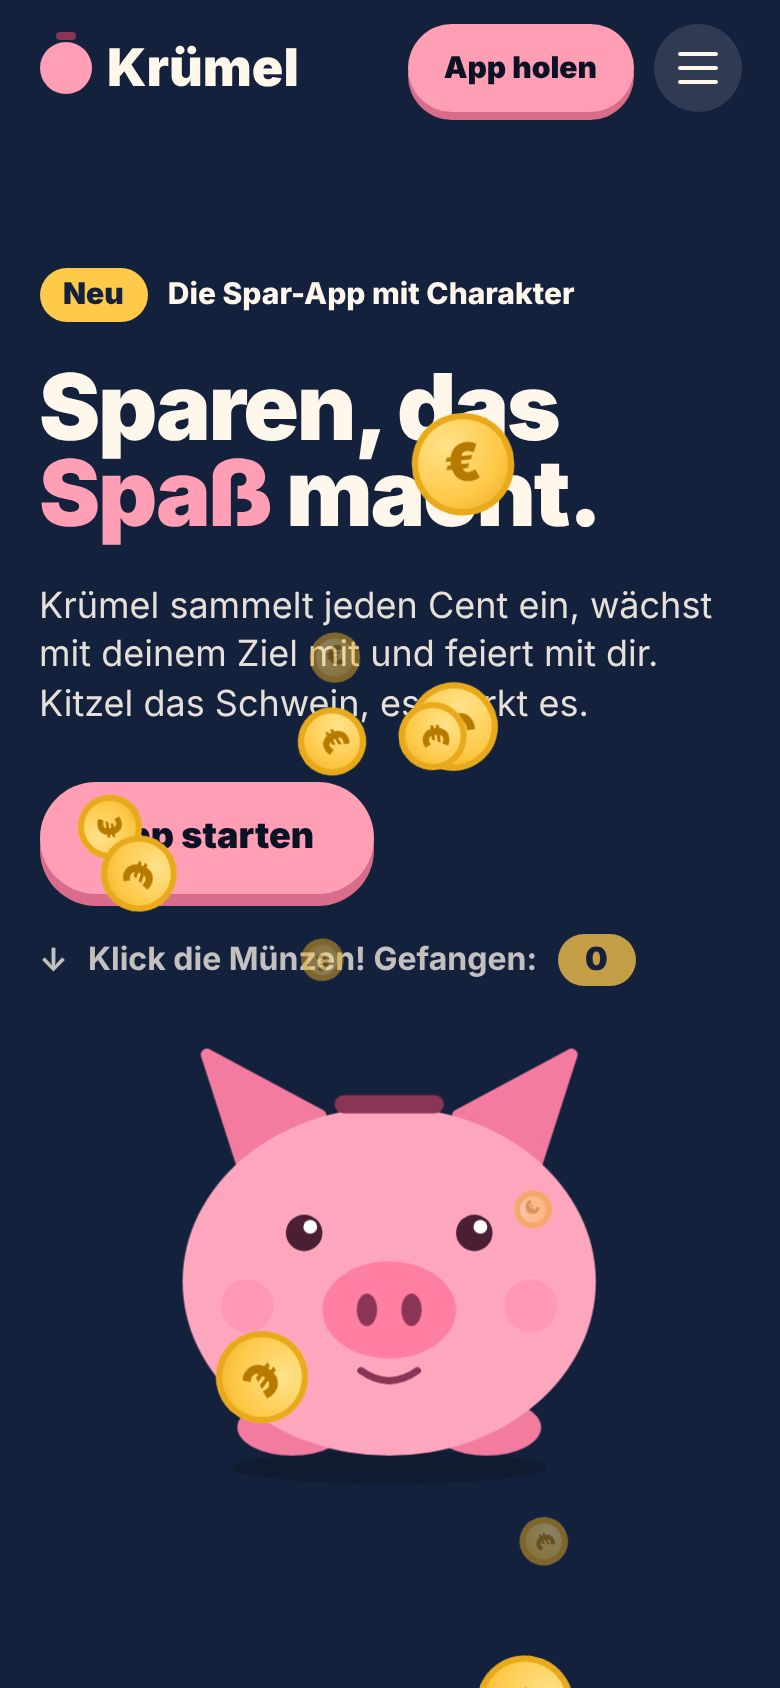
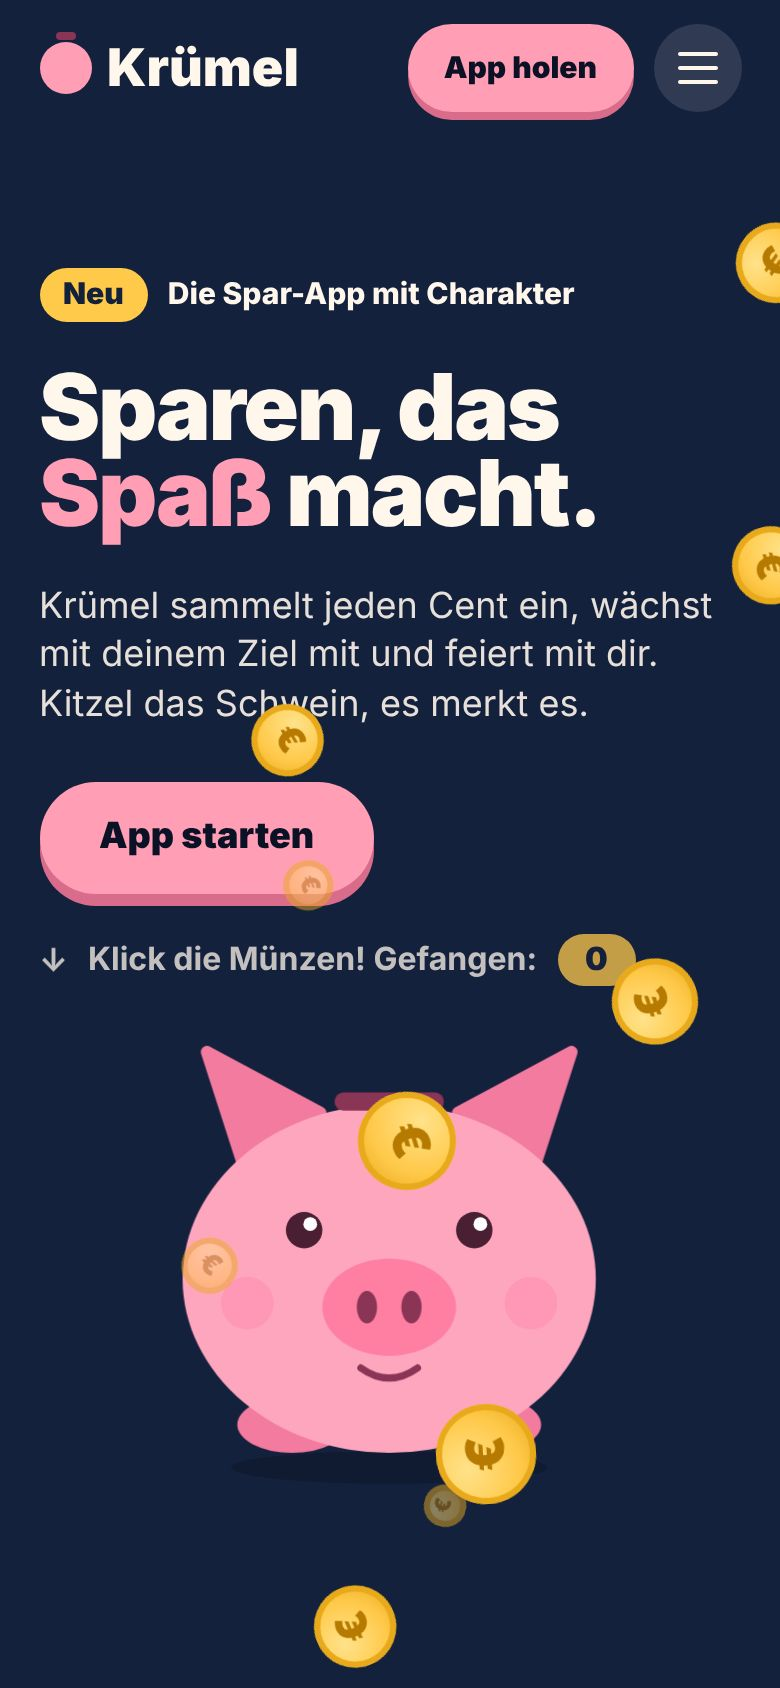
Kruemel: alle Handyformate (320-430, quer) und Tablets, Effekte wie im Original
- 320 px: Film randlos (Untertitel 16 px), Kopfzeile einzeilig, Sprechblasen im Bild
- Handy quer: Rakete und Film nach Hoehe, Menue scrollt; Touch quer mit wenig Hoehe:
  alle Szenen passen; Touch-Tablets: 44-px-Tippflaechen bei gleichem Layout
- Tablet hochkant: groessere Figuren
- Effekte wiederhergestellt: Muenzregen-Parallaxe auch per Finger, Muenzen fallen
  voll sichtbar, :active-Druck auf Touch; Hover-Huepfer bleibt Maus-only
- Screenshots 320/quer/tablet unter .github/mobil-screenshots/

Claude-Session: https://claude.ai/code/session_01AyfSqY7cTPqPCYg2cb2CQZ

diff --git a/index.html b/index.html
@@ -256,6 +256,7 @@ footer a{margin-right:18px}
  nav.open ul{opacity:1;visibility:visible;transform:none;transition:opacity .2s,transform .2s}
  nav ul a{display:flex;align-items:center;min-height:52px;font-size:20px;opacity:1;border-bottom:1px solid rgba(255,246,236,.12)}
  nav ul li:last-child a{border-bottom:0}
+ nav ul{max-height:calc(100vh - 68px);max-height:calc(100svh - 68px);overflow-y:auto;overscroll-behavior:contain}
  section{padding-top:88px;padding-left:max(5vw,env(safe-area-inset-left));padding-right:max(5vw,env(safe-area-inset-right))}
  footer{padding-left:max(5vw,env(safe-area-inset-left));padding-right:max(5vw,env(safe-area-inset-right))}
  /* Tippflächen >= 44px, Optik bleibt gleich */
@@ -276,9 +277,9 @@ footer a{margin-right:18px}
  #catchPig{max-width:min(300px,34vh);max-width:min(300px,34svh)}
  #grow .steps{height:136px;margin-top:22px}
  #growPig{max-width:min(300px,38vh);max-width:min(300px,38svh);margin-top:calc(min(300px,38vh)*-.17);margin-top:calc(min(300px,38svh)*-.17)}
- #growPig .bubble,#sliderPig .bubble{font-size:22px;white-space:normal;width:max-content;max-width:400px;text-align:center}
+ #growPig .bubble,#sliderPig .bubble{font-size:22px}
  .rcopy{top:88px;left:max(5vw,env(safe-area-inset-left));right:5vw;max-width:none}
- .rcopy .rstep{width:100%;text-shadow:0 2px 14px rgba(7,11,30,.45)}
+ .rcopy .rstep{width:100%;text-shadow:0 1px 3px rgba(7,11,30,.6),0 2px 18px rgba(7,11,30,.6)}
  .rcopy .rstep p{font-size:clamp(30px,9vw,44px)}
  .rcopy .rstep small{font-size:18px}
  .rocketwrap{width:clamp(96px,17vh,150px);width:clamp(96px,17svh,150px);margin-left:calc(clamp(96px,17vh,150px)/-2);margin-left:calc(clamp(96px,17svh,150px)/-2);bottom:auto;top:calc(86vh - clamp(96px,17vh,150px)*1.8);top:calc(86svh - clamp(96px,17svh,150px)*1.8)}
@@ -326,8 +327,66 @@ footer a{margin-right:18px}
  .rcopy{right:auto;width:44vw}
  .rcopy .rstep p{font-size:30px}
  .rcopy .rstep small{font-size:16px}
- .rocketwrap{left:70%}
- .film{max-width:calc((100vh - 60px)*16/9);max-width:calc((100svh - 60px)*16/9)}
+ .rocketwrap{left:70%;width:clamp(70px,22vh,150px);width:clamp(70px,22svh,150px);margin-left:calc(clamp(70px,22vh,150px)/-2);margin-left:calc(clamp(70px,22svh,150px)/-2);top:calc(86vh - clamp(70px,22vh,150px)*1.8);top:calc(86svh - clamp(70px,22svh,150px)*1.8)}
+ .film{max-width:calc((100vh - 76px)*16/9);max-width:calc((100svh - 76px)*16/9)}
+}
+@media (min-width:600px) and (max-width:860px) and (min-height:900px){
+ /* Tablet hochkant: Figuren größer, damit kein kleines Handy-Layout auf der großen Fläche steht */
+ .pigwrap{max-width:400px}
+ #hero .pigwrap{max-width:min(400px,34vh);max-width:min(400px,34svh)}
+ #catchPig{max-width:min(440px,40vh);max-width:min(440px,40svh)}
+ #growPig{max-width:min(460px,44vh);max-width:min(460px,44svh);margin-top:calc(min(460px,44vh)*-.17);margin-top:calc(min(460px,44svh)*-.17)}
+ #finale .pigwrap{width:300px}
+ .rocketwrap{width:clamp(96px,17vh,190px);width:clamp(96px,17svh,190px);margin-left:calc(clamp(96px,17vh,190px)/-2);margin-left:calc(clamp(96px,17svh,190px)/-2);top:calc(86vh - clamp(96px,17vh,190px)*1.8);top:calc(86svh - clamp(96px,17svh,190px)*1.8)}
+ #moon{width:clamp(96px,24vw,200px);right:-4vw}
+}
+@media (max-width:374px){
+ /* 320er-Handys: Film randlos (Untertitel und Schilder bleiben groß genug), Kopfzeile einzeilig */
+ .screen.port{width:auto;margin-left:-5vw;margin-right:-5vw;border-radius:0;border-left:0;border-right:0}
+ nav{gap:8px}
+ .logo{font-size:22px;gap:6px}
+ nav .btn.sm{white-space:nowrap;padding:12px 14px}
+ #moon{right:-12vw}
+}
+@media (min-width:861px) and (max-height:500px) and (pointer:coarse){
+ /* Touch-Geräte quer mit wenig Höhe im Desktop-Layout (z. B. 932x430): Szenen passen in die Höhe */
+ section{padding-top:84px;padding-bottom:28px}
+ .split{min-height:0}
+ h2{font-size:40px}
+ .lead{font-size:17px;margin-top:12px}
+ .eyebrow{margin-bottom:12px}
+ .counter{font-size:58px;margin-top:14px!important}
+ #hero .pigwrap,#catchPig{max-width:min(560px,60vh);max-width:min(560px,60svh)}
+ #grow .steps{height:120px;margin-top:16px}
+ .step big{font-size:44px}.step span{font-size:17px}
+ #growPig{max-width:min(560px,72vh);max-width:min(560px,72svh)}
+ .rcopy{top:84px}
+ .rcopy .rstep p{font-size:36px}
+ .rcopy .rstep small{font-size:17px}
+ .rocketwrap{width:clamp(70px,22vh,150px);width:clamp(70px,22svh,150px);margin-left:calc(clamp(70px,22vh,150px)/-2);margin-left:calc(clamp(70px,22svh,150px)/-2);bottom:auto;top:calc(86vh - clamp(70px,22vh,150px)*1.8);top:calc(86svh - clamp(70px,22svh,150px)*1.8)}
+ .film{max-width:calc((100vh - 76px)*16/9);max-width:calc((100svh - 76px)*16/9)}
+}
+@media (min-width:861px) and (pointer:coarse){
+ /* Touch-Tablets im Desktop-Layout: Tippflächen >= 44px, Layout bleibt gleich (Innenabstand + negativer Außenabstand) */
+ .skip{padding:12px 16px}
+ .logo{padding:5px 0;margin:-5px 0}
+ nav ul a{display:block;padding:12px 6px;margin:-12px -6px}
+ nav .btn.sm{padding-top:12px;padding-bottom:12px;margin:-2px 0}
+ label{padding:9px 0;margin:-9px 0 -3px}
+ input[type=range]{height:44px;border:solid transparent;border-width:13px 0;background-clip:padding-box;border-radius:9px/22px}
+ #amt{margin:5px 0}
+ .chips button{padding-top:12px;padding-bottom:12px;margin:-3px 0}
+ footer a{display:inline-block;padding:13px 0;margin-top:-13px;margin-bottom:-13px}
+ #growPig .bubble,#sliderPig .bubble{font-size:22px}
+}
+@media (max-width:860px),(pointer:coarse){
+ /* Sprechblasen umbrechen statt über den Rand zu laufen (Position korrigiert das Script) */
+ .bubble{white-space:normal;width:max-content;max-width:min(300px,86vw);text-align:center}
+ #growPig .bubble,#sliderPig .bubble{max-width:min(400px,105vw)}
+ .bubble::after{margin-left:calc(-9px + var(--tx,0px))}
+ /* Film quer bei kleiner Bühne: größere Untertitel und Schilder (Klasse setzt das Script) */
+ .canvas.lg .cap{font-size:clamp(34px,calc(15px / var(--k,.5)),44px);left:40px;right:40px;bottom:24px}
+ .canvas.lg .drop{font-size:clamp(26px,calc(12.5px / var(--k,.5)),40px)}
 }
 @media (min-width:861px) and (max-width:1180px) and (pointer:coarse){
  /* Tablet quer: Raketen-Text nicht unter die Rakete laufen lassen */
@@ -338,7 +397,8 @@ footer a{margin-right:18px}
  #rain .coin::before{content:"";position:absolute;inset:-10px;border-radius:50%}
 }
 @media (hover:none){
- .btn:hover{transform:none}
+ /* nur der Hover-Hüpfer entfällt auf Touch (dort gibt es kein Hover), der Druck-Effekt (:active) bleibt */
+ .btn:hover:not(:active){transform:none}
 }
 </style>
 </head>
@@ -531,8 +591,16 @@ function say(host,text,ms=2200){
  if(!b){b=document.createElement('div');b.className='bubble';host.append(b)}
  b.textContent=text;
  gsap.killTweensOf(b);
+ if(MOB||COARSE)keepIn(b);
  gsap.fromTo(b,{opacity:0,scale:.5,xPercent:-50,y:10,transformOrigin:'50% 100%'},{opacity:1,scale:1,y:0,duration:.35,ease:'back.out(2.2)'});
  gsap.to(b,{opacity:0,scale:.8,duration:.25,delay:ms/1000});
+}
+/* Mobil/Touch: Sprechblase seitlich im Bildschirm halten, die Spitze zeigt weiter aufs Schwein */
+function keepIn(b){
+ gsap.set(b,{x:0,xPercent:-50,y:0,scale:1});b.style.setProperty('--tx','0px');
+ const r=b.getBoundingClientRect(),vw=document.documentElement.clientWidth,k=r.width/b.offsetWidth||1,m=8;let dx=0;
+ if(r.width>vw-2*m)dx=(vw-r.width)/2-r.left;else if(r.left<m)dx=m-r.left;else if(r.right>vw-m)dx=vw-m-r.right;
+ if(dx){const hw=b.offsetWidth/2-22;gsap.set(b,{x:dx/k});b.style.setProperty('--tx',Math.max(-hw,Math.min(hw,-dx/k))+'px')}
 }
 function squash(pigEl,s=.88){
  gsap.timeline().to(pigEl,{scaleY:s,scaleX:2-s,duration:.1,transformOrigin:'50% 90%'}).to(pigEl,{scaleY:1,scaleX:1,duration:.5,ease:'elastic.out(1.2,.4)'});
@@ -625,11 +693,11 @@ gsap.to('#bar',{scaleX:1,ease:'none',scrollTrigger:{start:0,end:'max',scrub:.2}}
   }
   ScrollTrigger.create({trigger:'#hero',start:'top top',end:'bottom top',onToggle:s=>tw.forEach(t=>s.isActive?t.resume():t.pause())});
   const qx=gsap.quickTo(rain,'x',{duration:.9,ease:'power3.out'}),qy=gsap.quickTo(rain,'y',{duration:.9,ease:'power3.out'});
-  addEventListener('pointermove',e=>{if(COARSE&&e.pointerType!=='mouse')return;qx((e.clientX/innerWidth-.5)*-30);qy((e.clientY/innerHeight-.5)*-20)},{passive:true});
+  addEventListener('pointermove',e=>{qx((e.clientX/innerWidth-.5)*-30);qy((e.clientY/innerHeight-.5)*-20)},{passive:true});
   /* Intro: Hero baut sich weich auf */
   gsap.from('#hero .eyebrow,#hero h1,#hero .lead,#hero .btn,#hero .hint',{y:46,opacity:0,duration:.9,ease:'power3.out',stagger:.1,delay:.1});
   /* Smartphone/Tablet: der Hero-Button blieb nach dem Intro 46 px zu tief haengen und lag ueber dem Hinweis darunter (y-Endwert wurde als 46 gelesen). Hier explizit auf 0 fuehren; Desktop unveraendert. */
-  if(matchMedia('(max-width:860px)').matches)gsap.fromTo('#hero .btn',{y:46},{y:0,duration:.9,ease:'power3.out',delay:.4,overwrite:'auto'});
+  if(matchMedia('(max-width:860px), (pointer:coarse)').matches)gsap.fromTo('#hero .btn',{y:46},{y:0,duration:.9,ease:'power3.out',delay:.4,overwrite:'auto'});
   gsap.from('#heroPig',{scale:.6,opacity:0,y:60,duration:1.1,ease:'back.out(1.6)',delay:.25});
  }
  const host=$('#heroPig'),pg=host.querySelector('.pig');pg.dataset.own=1;let clicks=0,flying=false;
@@ -650,13 +718,13 @@ gsap.to('#bar',{scaleX:1,ease:'none',scrollTrigger:{start:0,end:'max',scrub:.2}}
  const pg=$('#catchPig .pig');
  if(reduce)return;
  const wrap=$('#coins'),N=10,obj={v:0},W=$('#catchPig').offsetWidth,SZ=Math.round(W*.2);
- const tl=gsap.timeline({scrollTrigger:{trigger:'#catch',start:'top top',end:'+=140%',pin:true,scrub:true,anticipatePin:1}});
+ const tl=gsap.timeline({scrollTrigger:{trigger:'#catch',start:'top top',end:'+=140%',pin:true,scrub:true,anticipatePin:1,invalidateOnRefresh:MOB}});
+ /* Smartphone: Münzen starten wie am Desktop oberhalb der Bildschirmkante (sonst warten sie als Haufen über der Überschrift) */
+ const startY=()=>{const h=$('#catchPig'),sec=$('#catch');return -(h.getBoundingClientRect().top-sec.getBoundingClientRect().top+h.offsetHeight*.182+SZ)};
  for(let i=0;i<N;i++){
   const c=makeCoin(SZ);c.style.left='50%';c.style.top='18.2%';c.style.marginLeft=-SZ/2+'px';c.style.marginTop=-SZ/2+'px';wrap.append(c);
   const s0=i*.5;
-  tl.fromTo(c,{y:()=>-innerHeight*.5,x:(rnd()-.5)*(W*.6),rotation:(rnd()-.5)*80,scaleX:1,scaleY:1},{y:0,x:0,rotation:0,duration:.6,ease:'power2.in'},s0);
-  /* Smartphone: Münzen blenden beim Fallen ein (hinter dem Text), statt als Haufen über der Überschrift zu warten */
-  if(MOB)tl.fromTo(c,{autoAlpha:0},{autoAlpha:1,duration:.24,ease:'none'},s0);
+  tl.fromTo(c,{y:MOB?startY:()=>-innerHeight*.5,x:(rnd()-.5)*(W*.6),rotation:(rnd()-.5)*80,scaleX:1,scaleY:1},{y:0,x:0,rotation:0,duration:.6,ease:'power2.in'},s0);
   tl.to(c,{scaleX:.14,duration:.2,ease:'power1.in'},s0+.4)
     .to(c,{y:W*.115,duration:.18,ease:'power1.in'},s0+.6)
     .to(pg,{scaleY:.92,scaleX:1.05,duration:.07,yoyo:true,repeat:1,transformOrigin:'50% 90%'},s0+.7);
@@ -730,7 +798,7 @@ function fatten(pg,k){
  const portMQ=matchMedia('(max-width:600px) and (orientation:portrait)');
  let W=1280,tl;
  const names=['Hallo','Das Problem','Regel 1','Kleinvieh','Notgroschen','Zinseszins','Fazit'];
- const fit=()=>{cvs.style.transform='scale('+(screen.clientWidth/W)+')'};addEventListener('resize',fit);
+ const fit=()=>{const k=screen.clientWidth/W;cvs.style.transform='scale('+k+')';if(MOB||COARSE){cvs.classList.toggle('lg',W===1280&&k<.5);cvs.style.setProperty('--k',k.toFixed(3))}};addEventListener('resize',fit);
  const filmPigs=[];
  const mk=(cls,html)=>{const d=document.createElement('div');d.className=cls;if(html!=null)d.innerHTML=html;return d};
  const put=(p,el,css)=>{if(css)Object.assign(el.style,css);p.append(el);return el};
